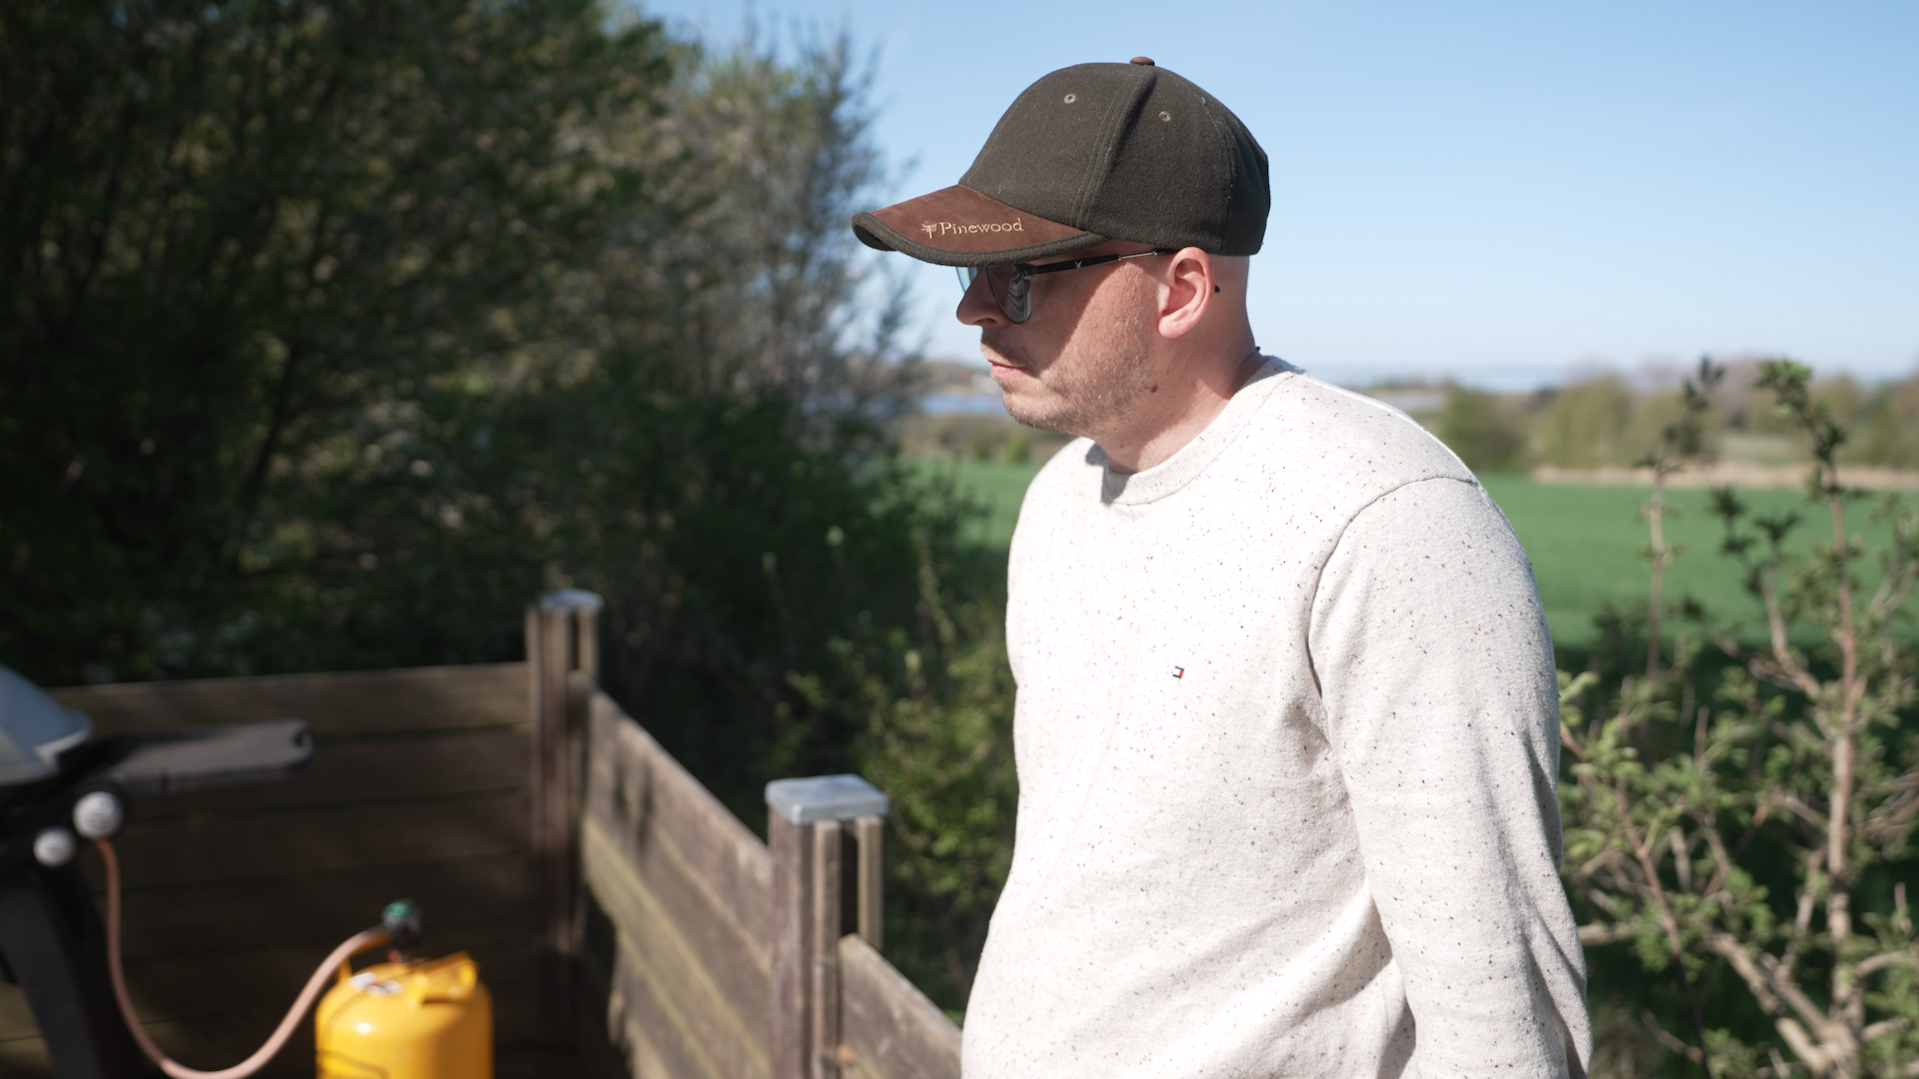
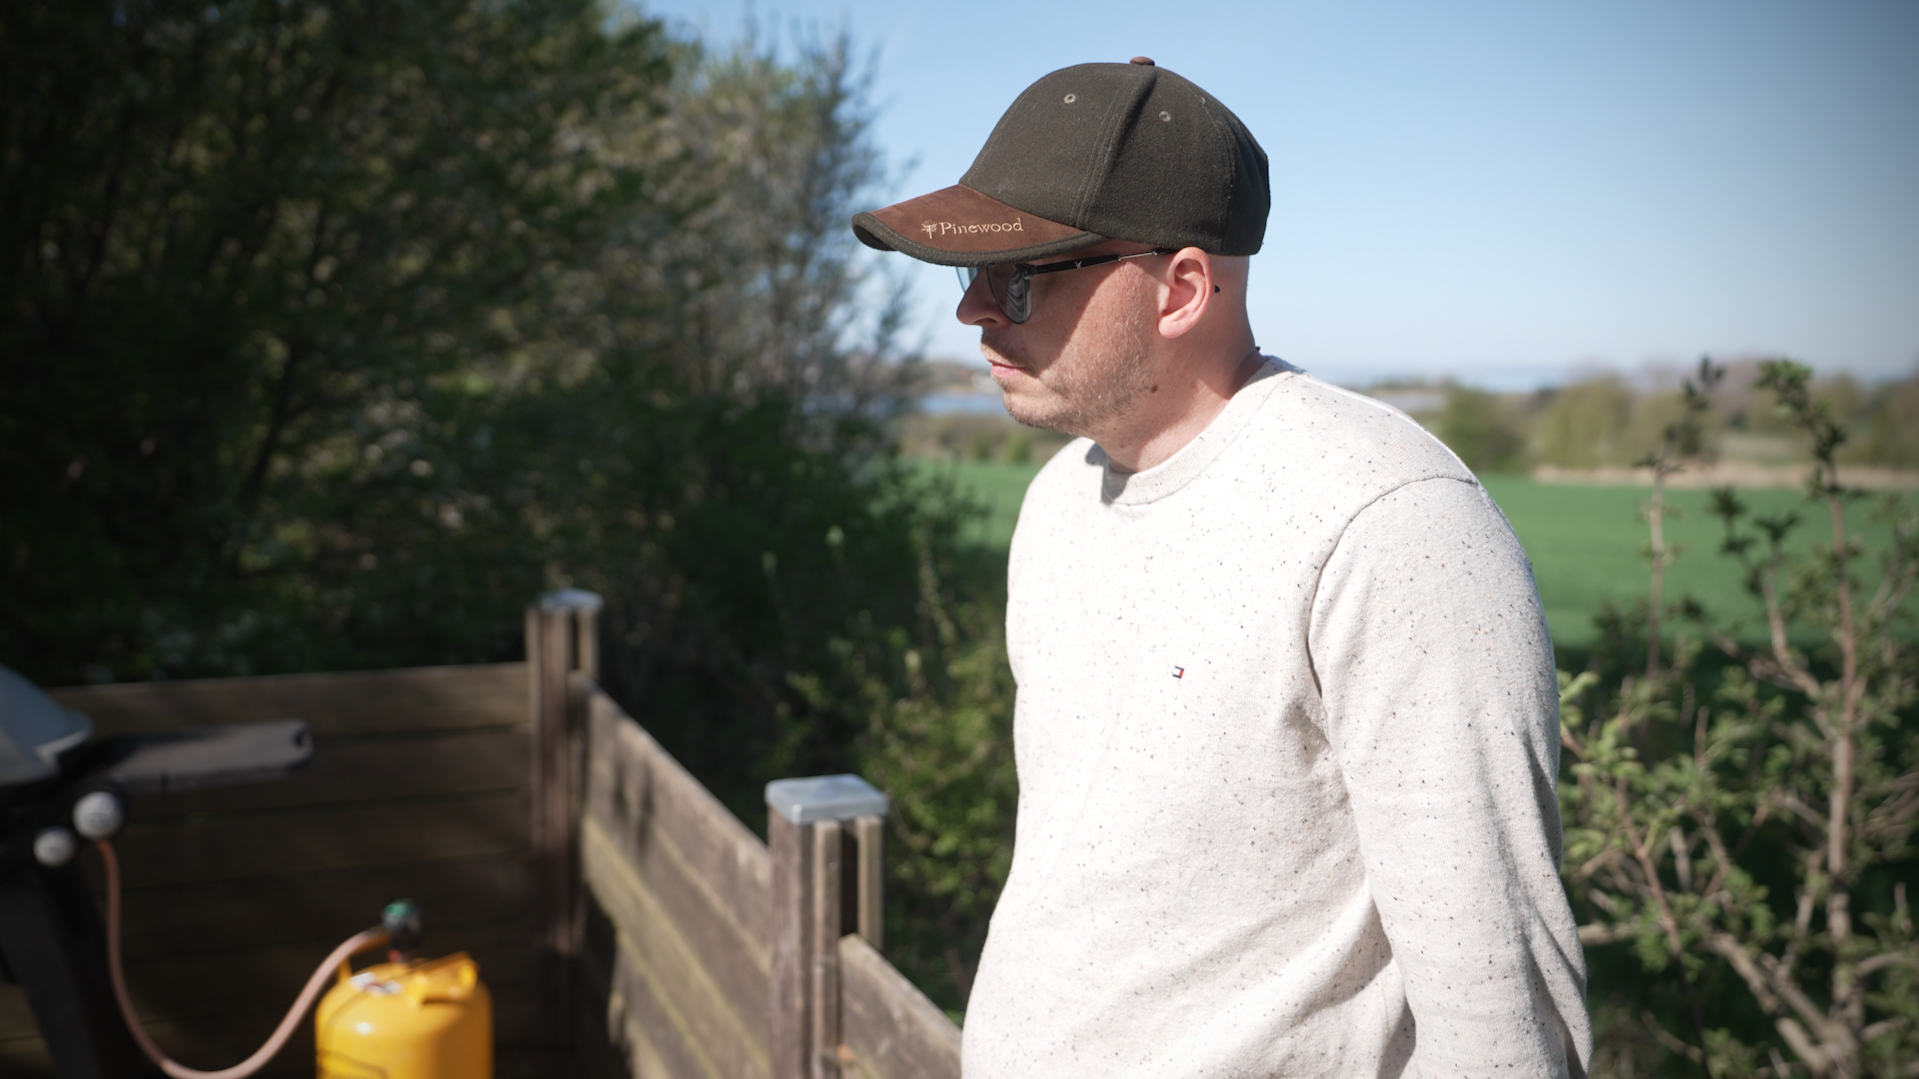
bilder bearbeitung und einfügen von footer und partnern

diff --git a/STYLE/test.css b/STYLE/test.css
@@ -419,7 +419,7 @@ body.frames-hidden .frame-toggle__toggle span{
 
 .frame{
     position: fixed;
-    background-color: white;
+    background-color: var(--col-Weiß);
     /* raise frames above section content so images sit visually underneath */
     z-index: 2 !important;
     transition: opacity 0.25s ease;
@@ -500,7 +500,6 @@ body.frames-hidden .frame-toggle__toggle span{
 }
 
 .introText{
-    /* center intro text horizontally and vertically in the viewport */
     position: absolute;
     left: 50%;
     top: 50%;
@@ -510,13 +509,13 @@ body.frames-hidden .frame-toggle__toggle span{
     justify-content: center;
     text-align: center;
     font-family: "Cormorant";
-    color: white;
+    color: var(--col-Weiß);
     font-size: 3.5rem;
     opacity: 1;
-    max-width: 50%; /* limit width relative to viewport for better centering */
+    max-width: 55%;
     width: calc(100% - 10vw);
     line-height: 3.6rem;
-    z-index: 3 !important; /* ensure it's visible above video but below UI if needed */
+    z-index: 3 !important;
 }
 
 .versalien {
@@ -534,7 +533,7 @@ body.frames-hidden .frame-toggle__toggle span{
     align-items: center;
     justify-content: center;
     font-family: "Inter", serif;
-    color: white;
+    color: var(--col-Weiß);
     font-size: 1.5rem;
     opacity: 0;
     margin: 0;
@@ -550,7 +549,7 @@ body.frames-hidden .frame-toggle__toggle span{
     display: flex;
     align-items: center;
     justify-content: center;
-    color: white;
+    color: var(--col-Weiß);
     flex-direction: column;
 }
 
@@ -586,22 +585,20 @@ body.frames-hidden .frame-toggle__toggle span{
 
 .zitat{
     position: absolute;
-    top: 6rem;
-    left: 9rem;
+    top: 11vh;
+    left: 13vw;
     font-family: "Cormorant", serif;
     font-size: 2rem;
-    max-width: 50%;
+    max-width: 35%;
     line-height: 3.6rem;
     filter: drop-shadow(1px 1px 4px rgba(0, 0, 0, 0.2));
-    color: white;
+    color: var(--col-Weiß);
 }
 
 .zitat h1{
     font-weight: 300;
     letter-spacing: -0.05rem;
 }
-
-
 
 .infoWrapper{
     position: absolute;
@@ -619,7 +616,7 @@ body.frames-hidden .frame-toggle__toggle span{
     font-family: "Cormorant", serif;
     color: #fff;
     z-index: 1 !important;
-    max-width: 32vw;
+    max-width: 30vw;
     margin: 0;
     font-weight: 400;
 }
@@ -645,6 +642,45 @@ body.frames-hidden .frame-toggle__toggle span{
     flex-direction: column;
 }
 
+.concept--text{
+    height: 80vh;
+    display: flex;
+    align-items: center;
+    justify-content: center;
+    flex-direction: column;
+    width: 100vw;
+}
+
+.partnerWrapper{
+    height: 50vh;
+    display: flex;
+    align-items: center;
+    justify-content: center;
+    flex-direction: row;
+    color: var(--col-Weiß);
+    font-family: 'Inter', serif;
+    gap: 1rem;
+    padding: 0 10vw 0 10vw;
+    width: 100vw;
+    flex-wrap: wrap;
+}
+
+.partnerWrapper img{
+    height: 8vh;
+    width: auto;
+}
+
+.footer{
+    height: 15vh;
+    display: flex;
+    align-items: center;
+    justify-content: center;
+    flex-direction: column;
+    background-color: var(--col-Weiß);
+    color: var(--col-Schwarz);
+    font-family: 'Inter', serif;
+}
+
 .unterabschnitt--media{
     align-items: stretch;
     justify-content: stretch;
@@ -657,7 +693,7 @@ body.frames-hidden .frame-toggle__toggle span{
     font-size: 1.7rem;
     padding: 8vh 10vw;
     text-align: left;
-    color: white;
+    color: var(--col-Weiß);
     letter-spacing: 1.2px;
     font-weight: 200;
     line-height: 1.18;
@@ -671,6 +707,23 @@ body.frames-hidden .frame-toggle__toggle span{
 
 .unterabschnitt--text p,
 .text p{
+    max-width: 40vw;
+    margin: 0;
+    line-height: 1.18;
+}
+.concept--text{
+    font-family: "Inter", serif;
+    font-size: 1.7rem;
+    padding: 8vh 10vw;
+    text-align: left;
+    color: var(--col-Weiß);
+    font-weight: 200;
+    line-height: 1.18;
+    display: flex;
+    flex-direction: column;
+}
+
+.concept--text p{
     max-width: 40vw;
     margin: 0;
     line-height: 1.18;
@@ -802,7 +855,7 @@ body.frames-hidden .frame-toggle__toggle span{
 .abschnitt__horizontal {
     display: flex;
     overflow-x: hidden;
-    color: white;
+    color: var(--col-Weiß);
     font-family: "KuahAyman", sans-serif;
 }
 
@@ -827,7 +880,7 @@ body.frames-hidden .frame-toggle__toggle span{
 }
 
 .abschnitt__card--horizontal p{
-    max-width: 60vw;
+    max-width: 50vw;
     margin: 0;
     line-height: 1.18;
     font-size: 1.7rem;
@@ -853,17 +906,6 @@ body.frames-hidden .frame-toggle__toggle span{
     font-family: "KuahAyman", sans-serif;
     flex-direction: row-reverse;
 }
-
-/* ensure abschnitt2 sits above the horizontal section */
-#abschnitt2{
-    position: relative;
-    overflow: visible;
-}
-
-#abschnitt3{
-    position: relative;
-}
-
 
 .aeroVinText{
     font-family: "Cormorant", serif
@@ -1075,7 +1117,12 @@ body.frames-hidden .frame-toggle__toggle span{
 
     .unterabschnitt--text p,
     .text p{
-        max-width: 60vw;
+        max-width: 50vw;
+        line-height: 1.18;
+    }
+
+    .concept--text p{
+        max-width: 50vw;
         line-height: 1.18;
     }
 

diff --git a/index.html b/index.html
@@ -89,7 +89,7 @@
     <div class="unterabschnitt unterabschnitt--media">
         <div class="videoIntro">
             <div class="introText">
-                <p>Change opens the door to new opportunities and perspectives. We call this: <span class="versalien">MOMENTUM</span>.</p>
+                <p><span class="versalien">MOMENTUM</span>Seizing opportunities and new perspectives presented by change and a shift in climate.</p>
             </div>
             <div class="scrollInfo">
                 <div class="scrollInfoText">
@@ -105,7 +105,7 @@
         </div>
     </div>
 
-    <div class="unterabschnitt unterabschnitt--text reveal-type">
+    <div class="unterabschnitt concept--text reveal-type">
         <p><span class="bigLabel">MOMENTUM</span><span class="firstSentence"> is designed to combine digital components and nature. With climate change taking center stage, we explore the chances it can provide and the aspects of life influenced by it. Our prime example is viticulture in Denmark.</span></p>
             <br>
             <p class="einruecker">This transmedia campaign for <span class="aeroVinText">ÆRØ VIN</span> includes a series of documentaries on the aspects of life influenced by climate change as well as the <span class="aeroVinText">ÆRØ VIN TRAIL</span>, an interactive wine trail filled with information on viticulture in Denmark.</p>
@@ -121,7 +121,7 @@
         <div class="content abschnitt__card--horizontal">
 
             <div class="zitat">
-                <h1>"Ich brauche hier eine neue Identität. Hier bin ich nicht Guido, der Filmemacher. Wer bin ich hier auf der Insel?"</h1>
+                <h1>"I need a new identity now. Here, I am not Guido, the filmmaker. Who am I on this island?"</h1>
             </div>
 
             <img src="ASSETS/IMAGES/Film_B.jpeg" alt="">
@@ -139,7 +139,6 @@
                 A decade ago, life as a winemaker couldn’t have seemed more absurd for Guido. Despite relatives maintaining their own vineyards, Guido had no contact points with winemaking.
                 Today, he operates his own winery. Guido kneels between vines, harvests their grapes and tends to the bio diversity on his vineyard.
                 Reinventing yourself from scratch doesn’t need to be perfect or planned, it just needs to be earnest.
-
             </p>
         </div>
 
@@ -176,7 +175,7 @@
         <div class="content abschnitt__card--horizontal">
 
             <div class="zitat">
-                <h1>„Perfekt gibt es nicht. Fang an, Schritt für Schritt.“</h1>
+                <h1>„Perfect doesn’t exist. Just get started, step by step.“</h1>
             </div>
 
             <img src="ASSETS/IMAGES/Film_A.JPG" alt="">
@@ -187,7 +186,8 @@
             <div class="infoWrapper">
                 <h1 class="titel" >An Island can Change Everything</h1>
 
-                <h1 class="teaser" >Silvia and Guido blossomed with new intensity on Ærø, delving into nature and rediscovering themselves (from a new perspective).</h1>
+                <h1 class="teaser" >Englisch
+                    Silvia and Guido blossomed with new intensity on Ærø, delving into nature and rediscovering themselves from a new perspective.</h1>
             </div>
 
             <p class="reveal-horizontal-text">In the beginning, the Weihermüllers couldn’t fathom moving from a life in the film industry in a big German city to a quiet life on a small Danish island.
@@ -217,7 +217,7 @@
 
 <div class="abschnitt" id="abschnitt6" data-titel=" " data-teaser=" " data-animation-direction="top">
     <div class="unterabschnitt unterabschnitt--ueberleitung reveal-type">
-        <p>To be on the same page is the most vital thing in a shared life. However, knowing when to accept help is just as important…</p>
+        <p>To be on the same page is the most vital thing in a shared life. However, knowing when to accept further help is just as important…</p>
     </div>
 </div>
 
@@ -343,10 +343,10 @@
     <div class="unterabschnitt unterabschnitt--image">
 
         <div class="zitat">
-            <h1>"Ich brauche hier eine neue Identität. Hier bin ich nicht Guido, der Filmemacher. Wer bin ich hier auf der Insel?"</h1>
+            <h1>“[Danish winemakers] had this pioneering spirit, everything was unorganized, it was adventurous, they had grape varieties nobody had heard of.”</h1>
         </div>
 
-        <img src="ASSETS/IMAGES/AERO_VIN_3.jpg" alt="">
+        <img src="ASSETS/IMAGES/Film_E_1.jpg" alt="">
     </div>
 
     <div class="unterabschnitt unterabschnitt--text">
@@ -357,12 +357,8 @@
             <p class="teaser-vertikal" >An insight in the concept of cool climate wine and the opportunity of viticulture in Denmark</p>
         </div>
 
-        <p class="reveal-vertical-text">Just a few decades ago, wineries and especially vineyards in Denmark seemed unthinkable.
-
-            Today, Denmark is one of the EUs official wine-growing regions.
-
+        <p class="reveal-vertical-text">Just a few decades ago, wineries and especially vineyards in Denmark seemed unthinkable. Today, Denmark is one of the EUs official wine-growing regions.
             Cool climate expert Jan Eggers offers an insight in the importance of choosing the right location and speaks about first wine-growing experiments and the history of the cool climate.
-
             In his line of work, Jan visits a lot of vineyards. During those he offers opinions and advice to newer winemakers, one of them being Guido.
         </p>
     </div>
@@ -371,7 +367,7 @@
         <div class="video">
             <button type="button" class="video-thumb" aria-label="Video abspielen"
                     data-video-trigger>
-                <img src="ASSETS/IMAGES/AERO_VIN_2.jpg" alt="Video-Vorschau von AERO VIN">
+                <img src="ASSETS/IMAGES/Film_E_2.jpg" alt="Video-Vorschau von AERO VIN">
                 <span class="video-thumb-play" aria-hidden="true"></span>
             </button>
 
@@ -386,8 +382,7 @@
 
 <div class="abschnitt" id="abschnitt12" data-titel=" " data-teaser=" " data-animation-direction="top">
     <div class="unterabschnitt unterabschnitt--ueberleitung reveal-type">
-        <p>Ambition is what drives you forward every single day. Finding your footing and discovering yourself in a new light daily doesn’t happen on it’s own…
-        </p>
+        <p>Sweat, joy and struggles are all part of a winemaker's life. When it comes to wine, the passion to create your own product becomes tangible for everyone…</p>
     </div>
 </div>
 
@@ -436,6 +431,50 @@
 
     </div>
 </div>
+
+<div class="abschnitt abschnitt--intro" id="outro" data-titel=" " data-teaser=" " data-animation-direction="top">
+    <div class="concept--text">
+        <p><span class="bigLabel">MOMENTUM</span><span class="firstSentence"> isn’t just about climate change. It’s about rediscovering yourself. Taking opportunities. Finding a new perspective.</span></p>
+        <br>
+        <p class="einruecker">We want you to feel inspired to find your own <span class="bigLabel">MOMENTUM</span>.</p>
+        <br>
+        <p class="einruecker">You’re wholeheartedly invited to visit our <span class="aeroVinText">ÆRØ VIN TRAIL</span> at Søby Landevej 20.
+            Feel free to also check out <span class="aeroVinText">ÆRØ VINs</span> winery website at aeroe-vin.com.
+        </p>
+    </div>
+
+    <div class="partnerWrapper">
+        <div class="partner">
+            <a href="https://www.ostfalia.de/hochschule/campus-einrichtungen/standorte/salzgitter" target="_blank"><img src="ASSETS/IMAGES/PARTNER/OstfaliaLogo.webp" alt="bild"></a>
+        </div>
+        <div class="partner">
+            <a href="https://www.geoparkoehavet.dk" target="_blank"><img src="ASSETS/IMAGES/PARTNER/geopark.jpg" alt="bild"></a>
+        </div>
+        <div class="partner">
+            <a href="https://www.geoparkoehavet.dk/nuna" target="_blank"><img src="ASSETS/IMAGES/PARTNER/nuna.jpg" alt="bild"></a>
+        </div>
+        <div class="partner">
+            <a href="https://www.klimasegler.de/" target="_blank"><img src="ASSETS/IMAGES/PARTNER/klimasegler.png" alt="bild"></a>
+        </div>
+        <div class="partner">
+            <a href="https://www.coolclimatesummit.com/" target="_blank"><img src="ASSETS/IMAGES/PARTNER/wineSummit.png" alt="bild"></a>
+        </div>
+        <div class="partner">
+            <a href="https://dansk-vin.dk/" target="_blank"><img src="ASSETS/IMAGES/PARTNER/skaersogaard.webp" alt="bild"></a>
+        </div>
+        <div class="partner">
+            <a href="https://www.bresser.de/" target="_blank"><img src="ASSETS/IMAGES/PARTNER/bresser.png" alt="bild"></a>
+        </div>
+        <div class="partner">
+            <a href="https://www.visitaeroe.dk/" target="_blank"><img src="ASSETS/IMAGES/PARTNER/aero-turist.png" alt="bild"></a>
+        </div>
+        <div class="partner">
+            <a href="https://www.farmersmarket-aeroe.com/" target="_blank"><img src="ASSETS/IMAGES/PARTNER/farmersMarket.png" alt="bild"></a>
+        </div>
+    </div>
+
+</div>
+<div class="footer">info info info</div>
 
 
 